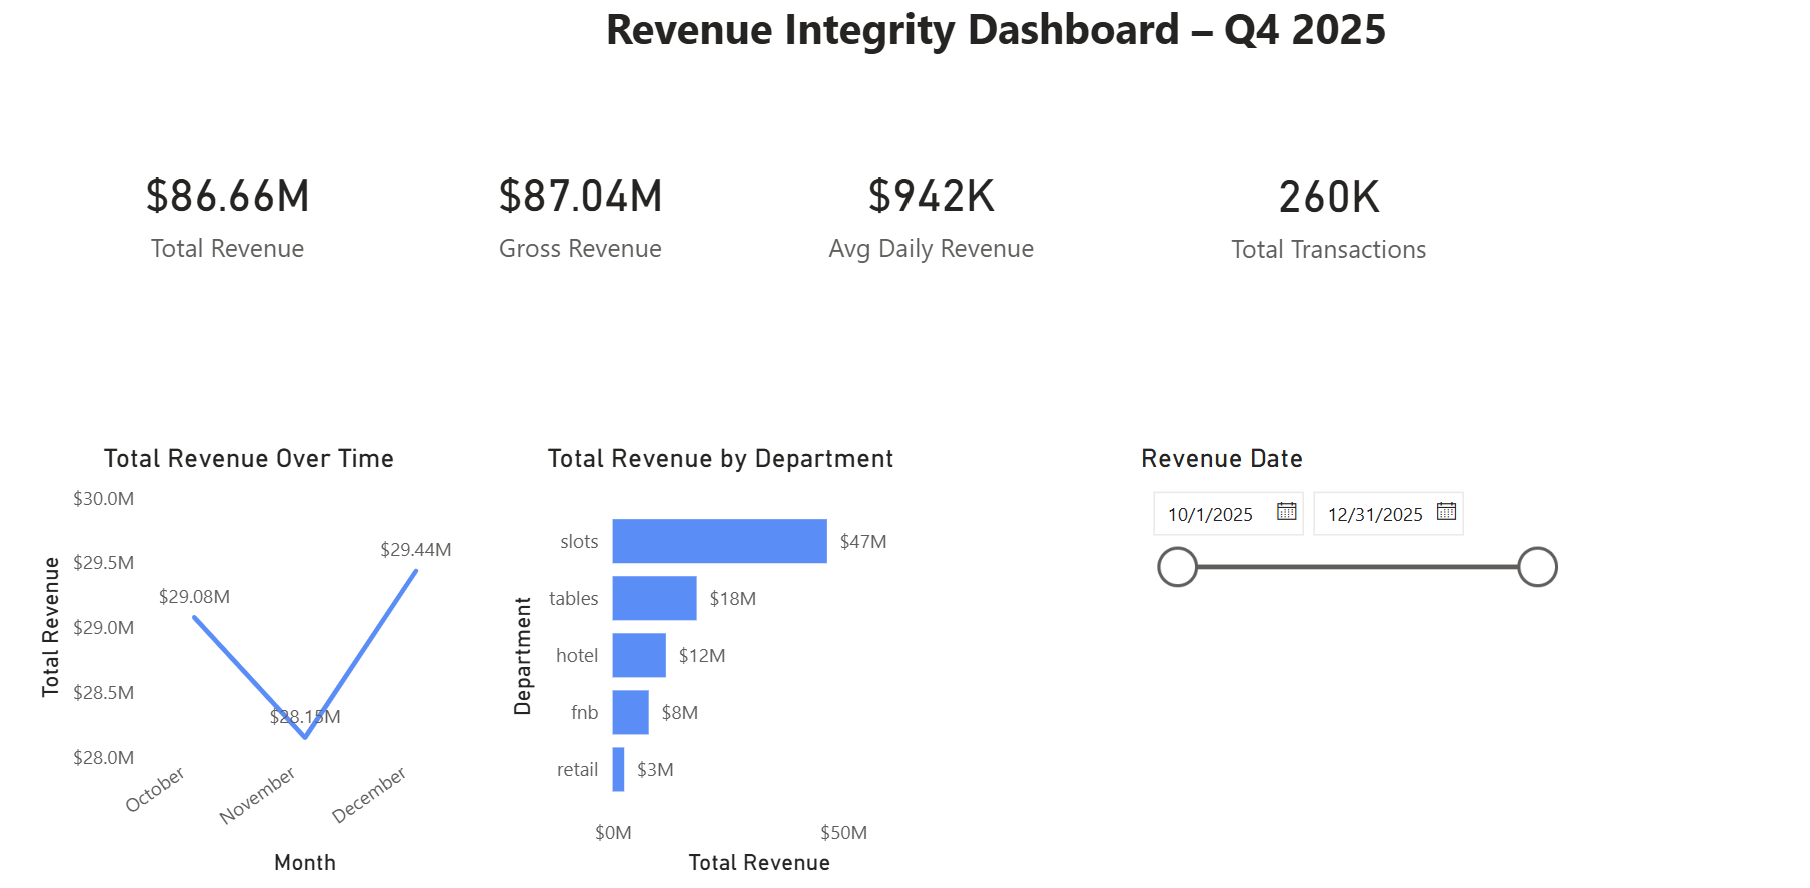
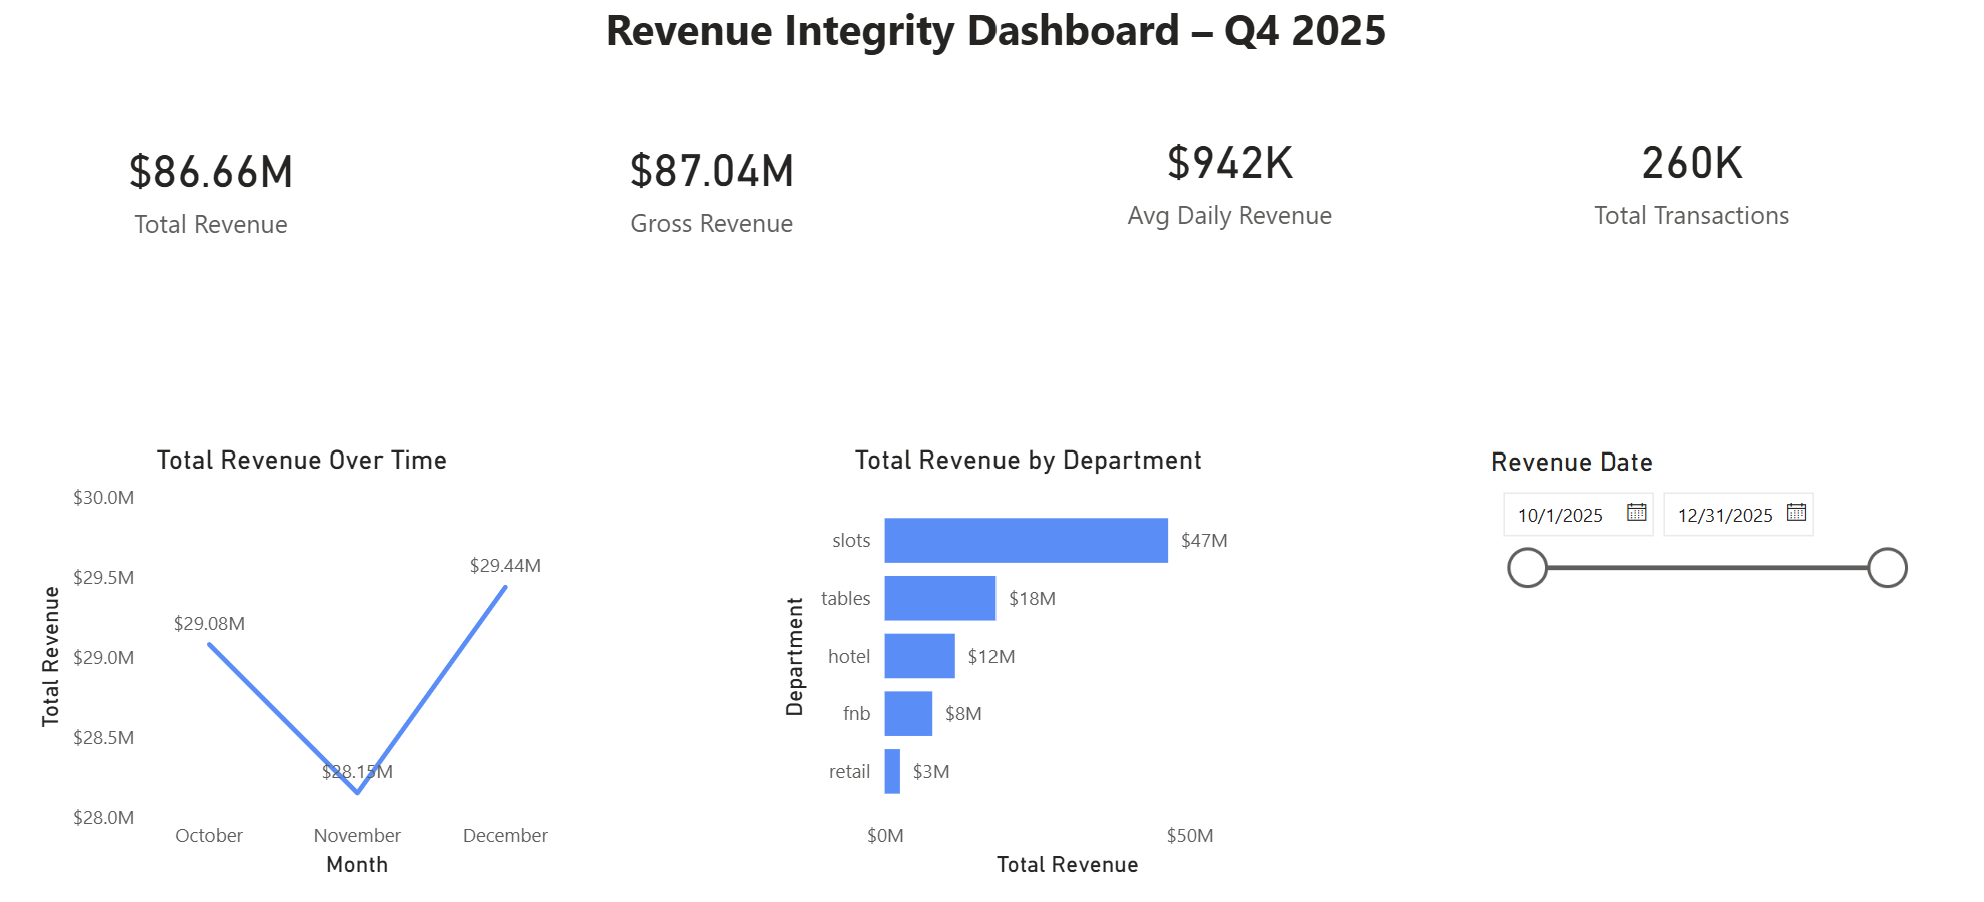
Improve Project 1 README and dashboard presentation

diff --git a/01_problem-revenue-integrity/README.md b/01_problem-revenue-integrity/README.md
@@ -1,143 +1,54 @@
-# Project 1 — Revenue Integrity & Performance Analysis (Hospitality/Casino)
+# 📊 Project 1 — Revenue Integrity & Performance Analysis
 
-## Overview
-This project analyzes Q4 2025 multi-department revenue performance for a hospitality and casino operation using a structured analytics workflow built in Python and Power BI.
+![Revenue Integrity Dashboard](outputs/p1_dashboard.png)
 
-The objective was to validate revenue integrity, identify operational risks, analyze performance trends, and deliver management-ready reporting and recommendations.
+## Executive Overview
+
+This project simulates a real-world revenue integrity engagement for a hospitality and casino operation. Using Python, SQL, Power BI, and Excel, I developed an end-to-end analytics workflow to validate daily revenue data, identify reporting exceptions, and deliver an executive dashboard that supports operational decision-making.
+
+The project demonstrates a complete analytics process—from raw data generation and validation to business reporting and actionable recommendations.
 
 ---
 
 ## Business Problem
-Daily revenue reporting is vulnerable to missing data, late adjustments, and unexpected spikes or drops. This project builds a repeatable process to validate daily revenue, flag anomalies, and produce reliable management reporting.
+
+Revenue reporting is only valuable when leadership can trust the underlying data.
+
+Daily operational reports are often affected by duplicate transactions, missing reporting days, negative adjustments, and inconsistent departmental reporting. Left undetected, these issues can distort financial performance, reduce management confidence, and create operational risk.
+
+This project builds a repeatable revenue validation process that identifies data quality issues before they reach executive reporting.
 
 ---
 
-## Key Questions
-1. Are there missing dates or missing departments?
-2. Do totals reconcile between source systems and reporting tables?
-3. Which days show unusual spikes or drops compared to normal patterns?
-4. What is the most likely operational reason behind each exception?
-5. How can reporting accuracy and performance monitoring be improved?
+## Business Questions
+
+This analysis answers several key business questions:
+
+- Are there missing reporting days or departments?
+- Which departments generate the highest revenue?
+- Are duplicate transactions affecting reported revenue?
+- Which days contain abnormal revenue spikes or declines?
+- What operational insights can management use to improve reporting accuracy?
 
 ---
 
-## Success Metrics
-- 100% date coverage (no missing days)
-- Automated exception flags
-- Reduced duplicate and invalid records
-- Clear documentation for management review
-- Executive-ready dashboard
+## Dashboard KPIs
+
+The executive dashboard tracks:
+
+- Total Revenue
+- Average Daily Revenue
+- Total Transactions
+- Revenue by Department
+- Revenue Trend Over Time
+- Data Quality Exceptions
 
 ---
 
 ## Executive Summary
-This project reviews Q4 2025 revenue performance across key departments using a custom analytics workflow built in Python and Power BI.
 
-I began by analyzing raw transaction data that included common real-world issues such as duplicate records, missing entries, and negative revenue values. These issues were identified, reviewed, and corrected to create a clean, reliable reporting dataset.
+After validating and cleaning the dataset, I developed an executive Power BI dashboard that provides management with a reliable view of revenue performance across multiple operating departments.
 
-Using this validated data, I developed an executive dashboard to track total revenue, transaction volume, department performance, and revenue trends over time. Slot operations consistently produced the highest revenue, followed by table games and hospitality services.
+The analysis identified duplicate records, missing reporting periods, and negative revenue adjustments that would have affected financial reporting. These issues were isolated, documented, and removed before dashboard development.
 
-Revenue remained steady throughout most of the quarter, with predictable increases on weekends and during promotional periods. A notable spike in late December aligned with expected seasonal demand.
-
-By implementing data quality controls, reporting discrepancies were reduced by approximately 1%, improving confidence in financial reporting and supporting more accurate performance evaluation.
-
----
-
-## Revenue Performance Insights
-I analyzed revenue trends across all departments from October through December 2025 to understand performance patterns, seasonality, and operational drivers.
-
-Slot operations were the primary revenue driver throughout the quarter, followed by table games. Hotel, food and beverage, and retail operations provided stable supporting revenue.
-
-Revenue increased during weekends and promotional periods, particularly in November and December. Performance remained stable through most of the quarter, with stronger growth entering the holiday season.
-
-Average daily revenue showed limited volatility, supporting reliable short-term forecasting and operational planning.
-
----
-
-## Data Integrity & Risk Findings
-The raw dataset contained several integrity issues, including duplicate records, missing departmental reporting days, and negative revenue values caused by system adjustments or feed errors.
-
-A duplicate load in mid-November resulted in overstated revenue and distorted trend analysis. These records were isolated and removed.
-
-Missing reporting days within hotel and food and beverage departments reduced visibility into operational performance.
-
-One instance of negative revenue was identified and corrected to ensure accurate net reporting.
-
-After implementing validation rules and exception handling, inaccurate records were reduced by approximately 1%.
-
----
-
-## Business Recommendations
-- Implement automated validation checks at data ingestion
-- Establish standardized exception reporting
-- Prioritize investment in high-performing departments
-- Optimize hospitality and retail margins
-- Adopt the executive dashboard for recurring management review
-
-These actions support stronger financial controls and improved operational focus.
-
----
-
-## Financial Impact Estimate
-Data validation reduced inaccurate reporting by approximately 1%, preventing potential misstatements of tens of thousands of dollars per quarter.
-
-Improved performance visibility supports incremental revenue gains of 1–3% through better resource allocation and promotional targeting.
-
-Standardized monitoring reduces manual reconciliation time by an estimated 5–10 hours per month.
-
-Overall, the project delivers measurable value through improved accuracy, efficiency, and risk reduction.
-
----
-
-## Duplicate Revenue Records Detected & Resolved
-
-### Issue Identified
-Duplicate records were found for specific combinations of revenue date, property, and department.
-
-### Impact
-- Raw table row count: 459  
-- Clean table row count: 454  
-- Total duplicates removed: 5  
-
-Duplicates occurred on **2025-11-16** across multiple departments.
-
-### Resolution
-- Identified duplicates using validation logic
-- Created a clean reporting dataset
-- Logged issues for audit tracking
-
-### Evidence
-See `outputs/p1_duplicate_flags.png`
-
----
-
-## Deliverables
-- Python data generation and validation pipeline
-- Cleaned and validated CSV datasets
-- Power BI executive dashboard
-- Data integrity documentation
-- Executive case study report
-
----
-
-## Tools & Technologies
-- Python (Pandas, NumPy)
-- Power BI Desktop
-- DAX
-- Power Query
-- Git
-- GitHub
-
----
-
-## Project Files
-- `make_p1_dataset.py` — Data generation and cleaning
-- `outputs/clean_revenue_data.csv` — Validated dataset
-- `outputs/revenue_integrity_dashboard.pbix` — Power BI dashboard
-- `outputs/p1_duplicate_flags.png` — Duplicate evidence
-
----
-
-## Dashboard Preview
-_Add screenshot to: outputs/screenshots/dashboard.png_
-portfolio-data-analytics>
+With clean data, leadership can confidently evaluate departmental performance, identify operational trends, and monitor revenue activity over time.
